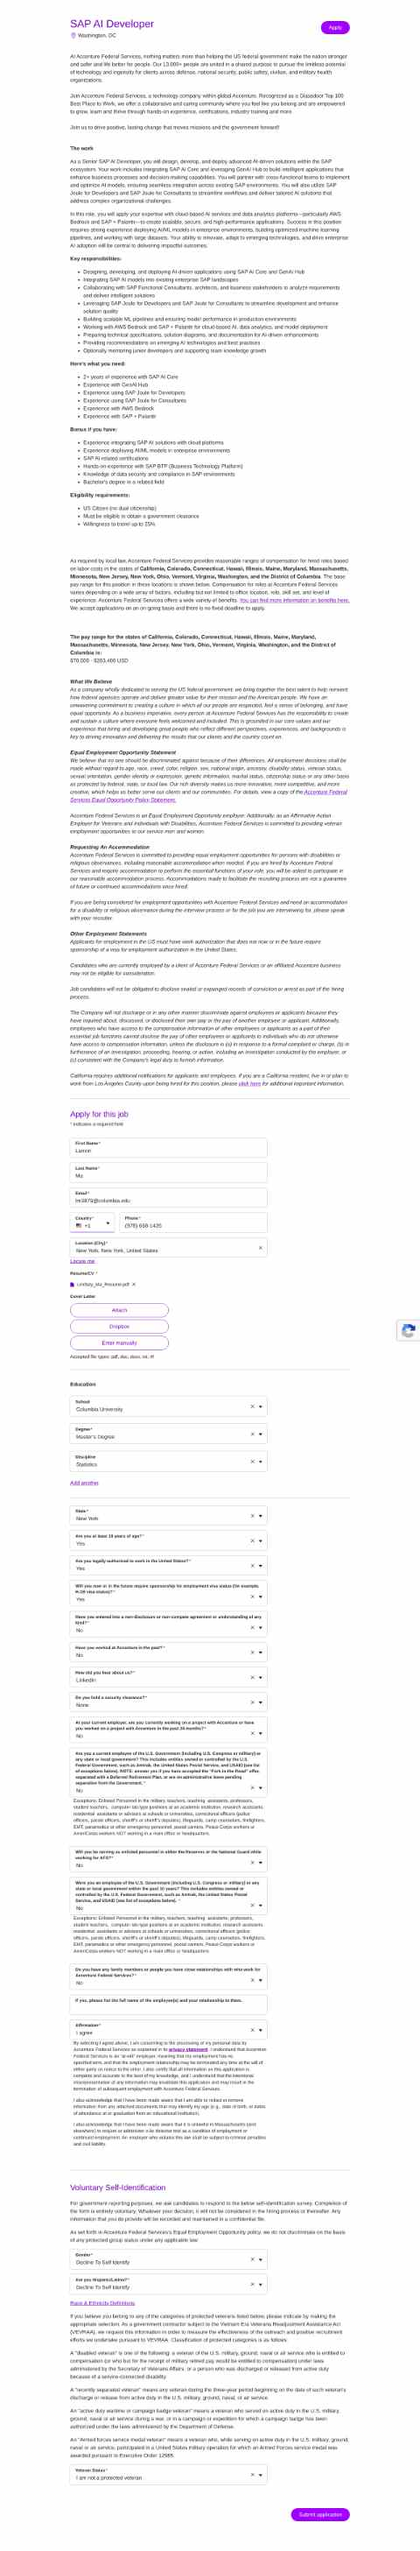
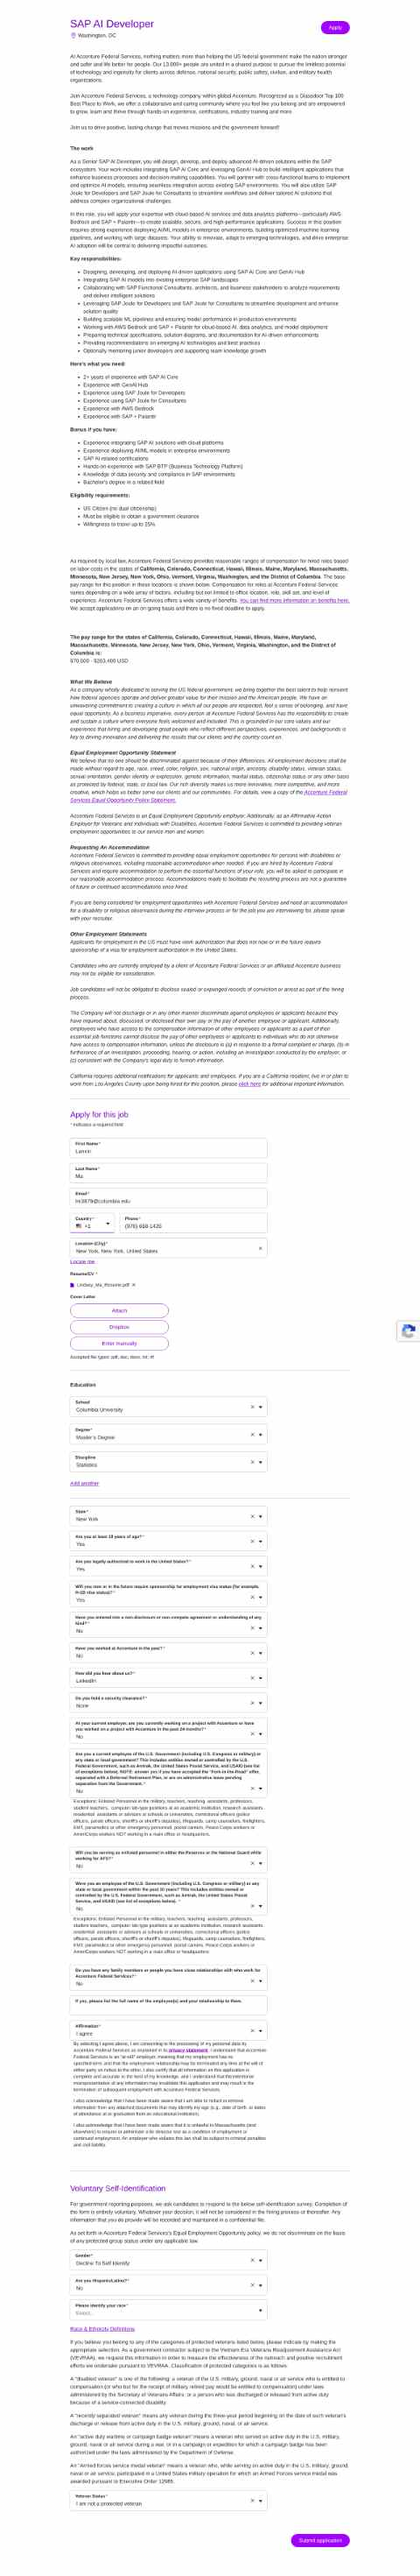
Greenhouse: a required race question that stays visible is declined too
Claude-Session: https://claude.ai/code/session_01LthPYPCFWW6DXaP1StUSyu

Changed region(s): [[0.1562, 0.0, 0.8438, 0.9997], [0.9375, 0.4998, 1.0, 0.5311]]

diff --git a/src/plan/plan.ts b/src/plan/plan.ts
@@ -120,8 +120,8 @@ function planField(field: FormField, form: FormSnapshot, profile: Profile, bank:
 
   // Greenhouse's EEO block: declining race resets "Are you Hispanic/Latino?" to
   // decline and hides the race question. A voluntary race question left blank declines it.
-  if (form.ats === "greenhouse" && field.id === "race" && profile.eeo.race === "decline") {
-    return { status: "skip", field, reason: field.required ? "declined through the Hispanic/Latino question, which hides race" : "race declined by leaving it blank (choosing decline resets the Hispanic/Latino answer)" };
+  if (form.ats === "greenhouse" && field.id === "race" && profile.eeo.race === "decline" && !field.required) {
+    return { status: "skip", field, reason: "race declined by leaving it blank (choosing decline resets the Hispanic/Latino answer)" };
   }
   // When the board requires race, declining it is only possible as a whole: answer the
   // Hispanic/Latino question with its decline option, which hides the race question.

diff --git a/tests/plan.test.ts b/tests/plan.test.ts
@@ -411,7 +411,8 @@ describe("buildPlan", () => {
     const h = { ...field("Are you Hispanic/Latino?", { kind: "combobox", options: opts }), id: "hispanic_ethnicity" };
     const r = (required: boolean) => ({ ...field("Please identify your race", { kind: "combobox", options: ["Asian", "Decline To Self Identify"] }), id: "race", required });
     const plan = (required: boolean) => buildPlan({ ...form([h, r(required)]), ats: "greenhouse" }, p, user.bank).items;
-    expect(plan(true).map((i) => i.status === "fill" ? i.value : i.status)).toEqual(["Decline To Self Identify", "skip"]);
+    // Some boards (Accenture Federal Services) keep a required race question visible: decline both.
+    expect(plan(true).map((i) => i.status === "fill" ? i.value : i.status)).toEqual(["Decline To Self Identify", "Decline To Self Identify"]);
     expect(plan(false).map((i) => i.status === "fill" ? i.value : i.status)).toEqual(["No", "skip"]);
   });
 
